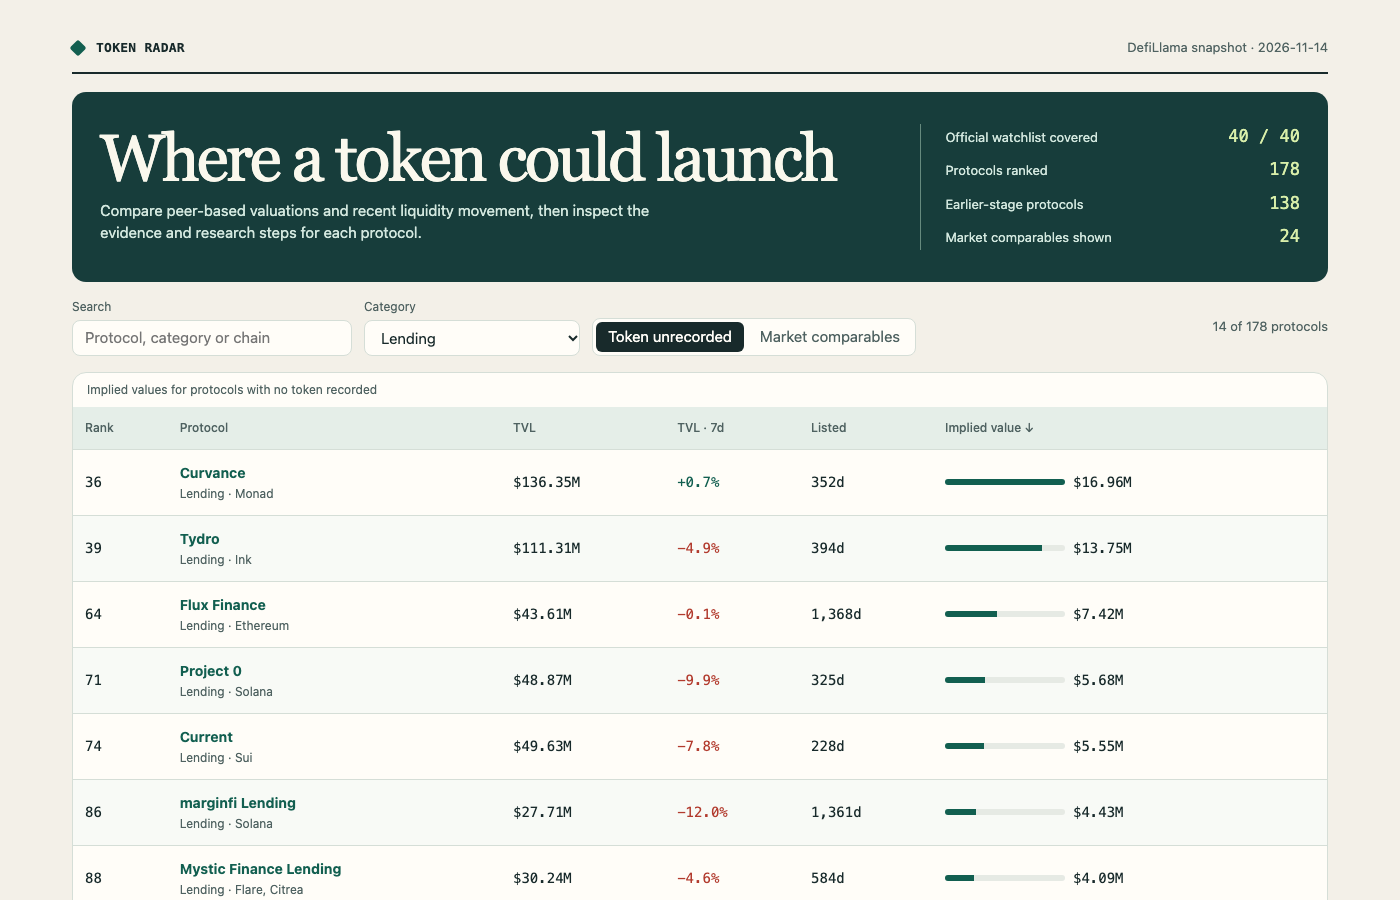
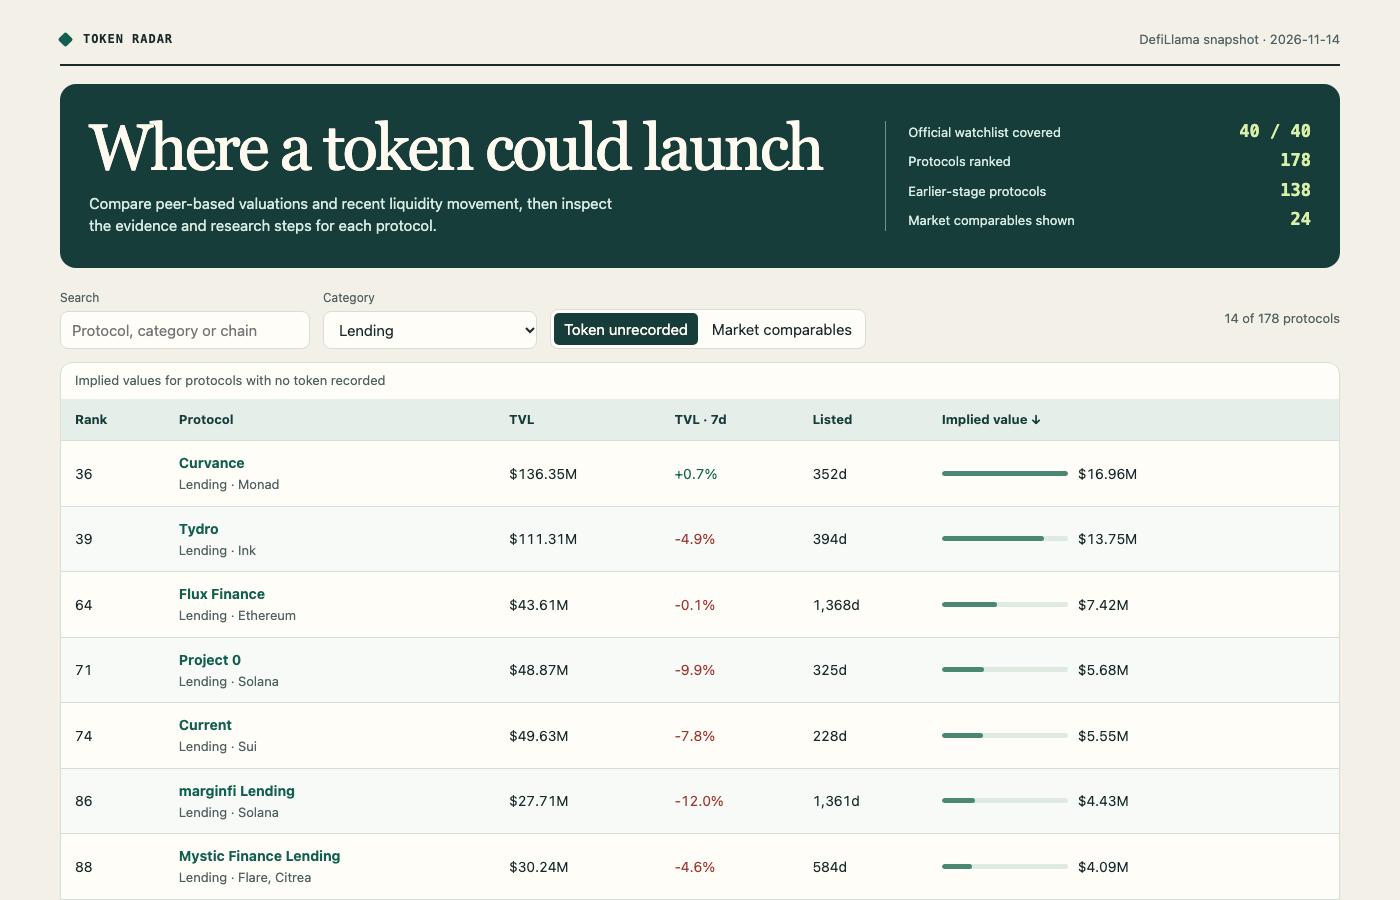
Design a responsive research dashboard and refresh screenshots

diff --git a/dashboard/app.css b/dashboard/app.css
@@ -1,167 +1,118 @@
-/* Token Radar's plain theme. The five palette values, two radii and two families are the whole style;
-   everything else is spacing, a hairline and a type step. */
 :root {
-  --canvas: #f2f5f3;
-  --surface: #ffffff;
-  --ink: #16211c;
-  --muted: #5f6f67;
-  --border: #d8e2dc;
-  --accent: #0f7a5a;
-  --negative: #b23b2e;
-  --radius-control: 8px;
-  --radius-panel: 14px;
-  --font-body: system-ui, -apple-system, "Segoe UI", sans-serif;
-  --font-num: ui-monospace, "SF Mono", Menlo, monospace;
-  --step-1: 4px;
-  --step-2: 8px;
-  --step-3: 12px;
-  --step-4: 16px;
-  --step-5: 24px;
-  --step-6: 32px;
-  --step-7: 48px;
-}
-
-* { box-sizing: border-box; }
-html { color-scheme: light; }
-body {
-  margin: 0;
-  background: var(--canvas);
-  color: var(--ink);
-  font: 400 15px/1.5 var(--font-body);
-  text-wrap: pretty;
-}
-h1, h2, h3 { margin: 0; letter-spacing: -0.02em; text-wrap: balance; }
-h1 { font-size: 30px; line-height: 1.15; font-weight: 600; }
-h2 { font-size: 20px; line-height: 1.2; font-weight: 600; }
-h3 { font-size: 16px; line-height: 1.25; font-weight: 600; }
-p { margin: 0; }
-button, input, select { font: inherit; color: inherit; }
-button { cursor: pointer; }
-a { color: var(--accent); }
-.skip {
-  position: absolute; left: -9999px; top: 0; padding: var(--step-2) var(--step-4);
-  background: var(--surface); border: 1px solid var(--border); z-index: 20;
-}
-.skip:focus { left: var(--step-4); top: var(--step-4); }
-:focus-visible { outline: 2px solid var(--accent); outline-offset: 2px; }
-
-.shell { max-width: 1320px; margin: 0 auto; padding: var(--step-5) var(--step-6) var(--step-7); }
-.top {
-  display: flex; align-items: flex-start; justify-content: space-between; gap: var(--step-5);
-  padding-bottom: var(--step-4); border-bottom: 1px solid var(--border);
-}
-.brand { display: flex; align-items: center; gap: var(--step-3); }
-.mark { width: 12px; height: 12px; border-radius: 50%; background: var(--accent); flex: none; }
-.brand-name { font-family: var(--font-num); font-size: 13px; letter-spacing: 0.02em; color: var(--muted); }
-.top-meta { display: flex; flex-wrap: wrap; gap: var(--step-3); justify-content: flex-end; color: var(--muted); font-size: 13px; }
-.top-meta span { white-space: nowrap; }
-.lede { display: grid; grid-template-columns: minmax(0, 1.35fr) minmax(280px, 0.65fr); gap: var(--step-6); padding: var(--step-6) 0 var(--step-5); }
-.lede p { color: var(--muted); max-width: 62ch; margin-top: var(--step-2); }
-.facts { display: grid; gap: var(--step-2); align-content: start; border-left: 1px solid var(--border); padding-left: var(--step-5); }
-.fact { display: flex; align-items: baseline; justify-content: space-between; gap: var(--step-3); }
-.fact b { font-family: var(--font-num); font-size: 15px; font-weight: 500; }
-.fact span { color: var(--muted); font-size: 13px; }
-
-.controls { display: flex; flex-wrap: wrap; align-items: end; gap: var(--step-3); padding: var(--step-4) 0; border-top: 1px solid var(--border); }
-.field { display: grid; gap: var(--step-1); }
-.field label { color: var(--muted); font-size: 12px; }
-.field input, .field select {
-  min-height: 36px; padding: 0 var(--step-3); border: 1px solid var(--border); border-radius: var(--radius-control);
-  background: var(--surface); min-width: 180px;
-}
-.field input { min-width: 280px; }
-.tabs { display: flex; gap: var(--step-1); padding: 3px; border: 1px solid var(--border); border-radius: var(--radius-control); background: var(--surface); }
-.tabs button { min-height: 30px; padding: 0 var(--step-3); border: 0; border-radius: 6px; background: transparent; color: var(--muted); }
-.tabs button[aria-pressed="true"] { background: var(--ink); color: var(--surface); }
-.count { margin-left: auto; color: var(--muted); font-size: 13px; align-self: center; }
-
-.panel { background: var(--surface); border: 1px solid var(--border); border-radius: var(--radius-panel); overflow: hidden; }
-.table-wrap { overflow-x: auto; }
-table { width: 100%; border-collapse: collapse; font-size: 14px; }
-th, td { padding: var(--step-3) var(--step-3); border-bottom: 1px solid var(--border); text-align: left; vertical-align: middle; }
-th { color: var(--muted); font-size: 12px; font-weight: 500; white-space: nowrap; }
-th button { display: inline-flex; align-items: center; gap: var(--step-1); border: 0; background: none; padding: 0; color: inherit; font: inherit; }
-th button:hover { color: var(--ink); }
-tbody tr { cursor: pointer; }
-tbody tr:hover { background: var(--surface); }
-tbody tr[data-selected="true"] { background: color-mix(in srgb, var(--accent) 8%, var(--surface)); }
-.num { font-family: var(--font-num); font-variant-numeric: tabular-nums; white-space: nowrap; }
-.name { display: grid; gap: 2px; }
-.name b { font-weight: 600; }
-.sub { color: var(--muted); font-size: 12px; }
-.pos { color: var(--accent); }
-.neg { color: var(--negative); }
-.bar { width: 120px; height: 6px; border-radius: 3px; background: color-mix(in srgb, var(--border) 60%, var(--surface)); overflow: hidden; }
-.bar i { display: block; height: 100%; background: var(--accent); }
-.implied { display: flex; align-items: center; gap: var(--step-2); }
-.status { display: inline-flex; align-items: center; gap: 6px; color: var(--muted); font-size: 12px; white-space: nowrap; }
-.status::before { content: ""; width: 6px; height: 6px; border-radius: 50%; background: var(--accent); }
-
-.model { margin-top: var(--step-4); padding: var(--step-5); display: grid; gap: var(--step-3); }
-.formula { font-family: var(--font-num); font-size: 13px; line-height: 1.7; color: var(--muted); overflow-wrap: anywhere; }
-.empty { padding: var(--step-7) var(--step-5); text-align: center; display: grid; gap: var(--step-3); justify-items: center; }
-.empty p { color: var(--muted); }
-.button { min-height: 36px; padding: 0 var(--step-4); border: 1px solid var(--border); border-radius: var(--radius-control); background: var(--surface); }
-.button.primary { background: var(--accent); border-color: var(--accent); color: var(--surface); }
-
-.detail {
-  position: fixed; top: 0; right: 0; bottom: 0; width: min(520px, 92vw); z-index: 10;
-  background: var(--surface); border-left: 1px solid var(--border); padding: var(--step-5);
-  overflow-y: auto; transform: translateX(0); transition: transform 200ms cubic-bezier(0, 0, 0.2, 1);
-}
-.detail[hidden] { display: none; }
-.detail { margin: 0 0 0 auto; max-height: 100%; }
-.detail::backdrop { background: rgba(22, 33, 28, 0.28); }
-.detail-head { display: flex; align-items: start; justify-content: space-between; gap: var(--step-4); }
-.detail-head > div { min-width: 0; }
-.detail-head .sub { overflow-wrap: anywhere; }
-.close { flex: none; min-width: 32px; min-height: 32px; padding: 0 var(--step-2); white-space: nowrap; border: 1px solid var(--border); border-radius: var(--radius-control); background: var(--surface); }
-.detail h2 { margin-top: var(--step-1); }
-.detail .sub { margin-top: var(--step-1); }
-.detail-section { margin-top: var(--step-5); padding-top: var(--step-4); border-top: 1px solid var(--border); }
-.detail-section h3 { margin-bottom: var(--step-2); }
-.equation { display: grid; gap: var(--step-2); font-family: var(--font-num); font-size: 13px; }
-.equation div { display: flex; justify-content: space-between; gap: var(--step-3); }
-.equation span { color: var(--muted); }
-.steps { margin: 0; padding-left: var(--step-5); display: grid; gap: var(--step-3); }
-.steps li { padding-left: var(--step-1); }
-.steps b { display: block; font-weight: 500; }
-.cost { color: var(--muted); font-size: 12px; font-family: var(--font-num); }
-
-@media (max-width: 900px) {
-  .shell { padding: var(--step-4); }
-  .lede { grid-template-columns: 1fr; gap: var(--step-4); }
-  .facts { border-left: 0; border-top: 1px solid var(--border); padding-left: 0; padding-top: var(--step-4); }
-  .field input { min-width: 0; width: 100%; }
-}
-@media (prefers-reduced-motion: reduce) {
-  *, *::before, *::after { transition-duration: 0.01ms !important; animation-duration: 0.01ms !important; animation-iteration-count: 1 !important; }
-}
-
-:root {
-  --canvas: #f3f0e8;
-  --surface: #fffdf8;
+  color-scheme: light;
+  --paper: #f3f0e8;
+  --card: #fffdf8;
   --ink: #182a2b;
-  --muted: #4f6261;
-  --border: #d5ded7;
+  --forest: #173d3b;
   --accent: #125f50;
+  --muted: #4f6261;
+  --line: #d5ded7;
+  --soft: #edf4ef;
+  font: 15px/1.5 system-ui, sans-serif;
+  color: var(--ink);
+  background: var(--paper);
 }
-.top { align-items: center; padding: 14px 0; border-bottom: 2px solid var(--ink); }
-.brand-name { color: var(--ink); font-weight: 700; text-transform: uppercase; }
-.mark { border-radius: 2px; transform: rotate(45deg); }
-.lede { padding: 32px 28px; margin-top: 18px; color: #faf8ed; background: #173d3b; border-radius: 14px; }
-.lede h1 { font: 500 clamp(34px, 5vw, 66px)/1.02 Georgia, serif; letter-spacing: -.045em; }
-.lede p, .lede .fact span { color: #d3e8df; }
-.lede .facts { border-color: #668a7e; }
-.lede .fact b { color: #d9efaa; font-size: 17px; }
-.controls { border-top: 0; }
-thead { background: #e5eee8; }
-tbody tr:nth-child(even) { background: #f8faf6; }
-
+* { box-sizing: border-box; }
+body { margin: 0; }
+h1, h2, h3, p { margin: 0; }
+h2 { font-size: 24px; line-height: 1.12; }
+h3 { font-size: 16px; }
+button, select, input { color: inherit; font: inherit; }
+button, select, summary { cursor: pointer; }
+:focus-visible { outline: 2px solid #1c806b; outline-offset: 3px; }
+.skip { position: fixed; top: 8px; left: -100vw; background: var(--card); padding: 10px; z-index: 5; }
+.skip:focus { left: 8px; }
+.shell { width: min(1280px, calc(100% - 72px)); margin: auto; padding: 20px 0 52px; }
+.top, .brand, .top-meta { display: flex; align-items: center; gap: 12px; }
+.top { justify-content: space-between; padding: 10px 0 14px; border-bottom: 2px solid var(--ink); }
+.mark { width: 11px; height: 11px; transform: rotate(45deg); background: var(--accent); border-radius: 2px; }
+.brand-name { font: 750 12px/1.4 ui-monospace, monospace; letter-spacing: .08em; text-transform: uppercase; }
+.top-meta, .count, .sub { font-size: 13px; color: var(--muted); }
+.lede {
+  display: grid;
+  grid-template-columns: minmax(0, 1.8fr) minmax(234px, 1fr);
+  align-items: center;
+  gap: 30px;
+  margin: 18px 0 8px;
+  padding: 31px 29px;
+  border-radius: 16px;
+  background: var(--forest);
+  color: #fffaf0;
+}
+.lede h1 { font: 500 clamp(34px, 5vw, 65px)/1 Georgia, serif; letter-spacing: -.04em; }
+.lede p { max-width: 56ch; margin-top: 12px; color: #d7ebe1; }
+.facts { display: grid; gap: 8px; padding-left: 22px; border-left: 1px solid #72928a; }
+.fact { display: flex; align-items: baseline; justify-content: space-between; gap: 14px; }
+.facts .fact span { color: #d7ebe1; font-size: 13px; }
+.facts .fact b { color: #d9efaa; font: 650 17px ui-monospace, monospace; }
+.controls { display: flex; align-items: end; flex-wrap: wrap; gap: 13px; padding: 13px 0; }
+.field { display: grid; gap: 4px; }
+.field label { color: var(--muted); font-size: 12px; }
+.field input, .field select, .tabs, .close {
+  border: 1px solid var(--line);
+  border-radius: 8px;
+  background: var(--card);
+}
+.field input, .field select { min-height: 38px; padding: 7px 11px; }
+.field input { width: 250px; }
+.field select { min-width: 190px; }
+.tabs { display: flex; gap: 4px; padding: 3px; }
+.tabs button { padding: 5px 10px; background: transparent; border: 0; border-radius: 5px; }
+.tabs button[aria-pressed="true"] { background: var(--forest); color: #fffaf0; }
+.count { margin-left: auto; align-self: center; }
+.panel { background: var(--card); border: 1px solid var(--line); border-radius: 12px; }
+.table-wrap { overflow-x: auto; }
+table { width: 100%; border-collapse: collapse; }
+caption { padding: 8px 14px; text-align: left; }
+th, td { text-align: left; border-bottom: 1px solid var(--line); padding: 11px 14px; }
+th { background: #e5eee8; color: var(--forest); font-size: 13px; white-space: nowrap; }
+th button { padding: 0; background: none; border: 0; font-weight: 700; }
+td { font-size: 14px; }
+tbody tr:nth-child(even) { background: #f7faf6; }
+tbody tr:hover, tbody tr:focus-within { background: var(--soft); }
+tbody tr:last-child td { border-bottom: 0; }
+.num { white-space: nowrap; font-variant-numeric: tabular-nums; }
+.neg { color: #a1342e; }
+.pos { color: #12644b; }
 .protocol-link { font-weight: 700; }
-button.protocol-link { background: transparent; border: 0; padding: 0; color: var(--accent); text-align: left; }
+button.protocol-link { padding: 0; border: 0; background: transparent; color: var(--accent); text-align: left; }
 button.protocol-link:hover { text-decoration: underline; }
-.protocol-cell .sub { display: block; margin-top: 2px; }
-caption { text-align: left; padding: 8px 14px; }
-.model summary { color: var(--accent); cursor: pointer; font-weight: 700; }
-.model p { margin-top: 10px; }
+.protocol-cell .sub { margin-top: 2px; }
+.implied { display: grid; grid-template-columns: minmax(40px, 9vw) minmax(75px, auto); gap: 10px; align-items: center; }
+.bar { display: block; height: 5px; background: #dfebe1; border-radius: 9px; overflow: hidden; }
+.bar i { display: block; height: 100%; background: #4a8874; border-radius: inherit; }
+.model { margin-top: 16px; padding: 15px; }
+.model summary { color: var(--accent); font-weight: 700; }
+.model p { max-width: 90ch; margin-top: 8px; }
+.detail {
+  inset: 0 0 0 auto;
+  margin: 0;
+  width: min(580px, 100vw);
+  height: 100dvh;
+  max-width: none;
+  max-height: none;
+  padding: 24px 28px;
+  border: 0;
+  border-left: 1px solid var(--line);
+  color: var(--ink);
+  background: var(--card);
+  overflow: auto;
+}
+.detail::backdrop { background: #10252273; }
+.detail-head { display: flex; align-items: start; justify-content: space-between; gap: 18px; }
+.detail-head h2 { margin: 4px 0; }
+.close { padding: 6px 12px; }
+.detail-section { border-top: 1px solid var(--line); margin-top: 18px; padding-top: 13px; }
+.equation { display: grid; gap: 3px; margin-top: 8px; }
+.equation .fact { padding: 2px 0; font-size: 13px; }
+.equation .fact:last-child { padding: 7px 9px; background: var(--soft); border-radius: 6px; }
+.steps { margin: 7px 0 0; padding-left: 23px; font-size: 14px; }
+.steps li + li { margin-top: 9px; }
+@media (max-width: 720px) {
+  .shell { width: calc(100% - 26px); padding-top: 10px; }
+  .lede { grid-template-columns: 1fr; padding: 22px; gap: 17px; }
+  .facts { border-left: 0; border-top: 1px solid #72928a; padding: 12px 0 0; }
+  .controls { align-items: start; }
+  .count { margin-left: 0; }
+  th, td { padding: 8px 10px; }
+}
